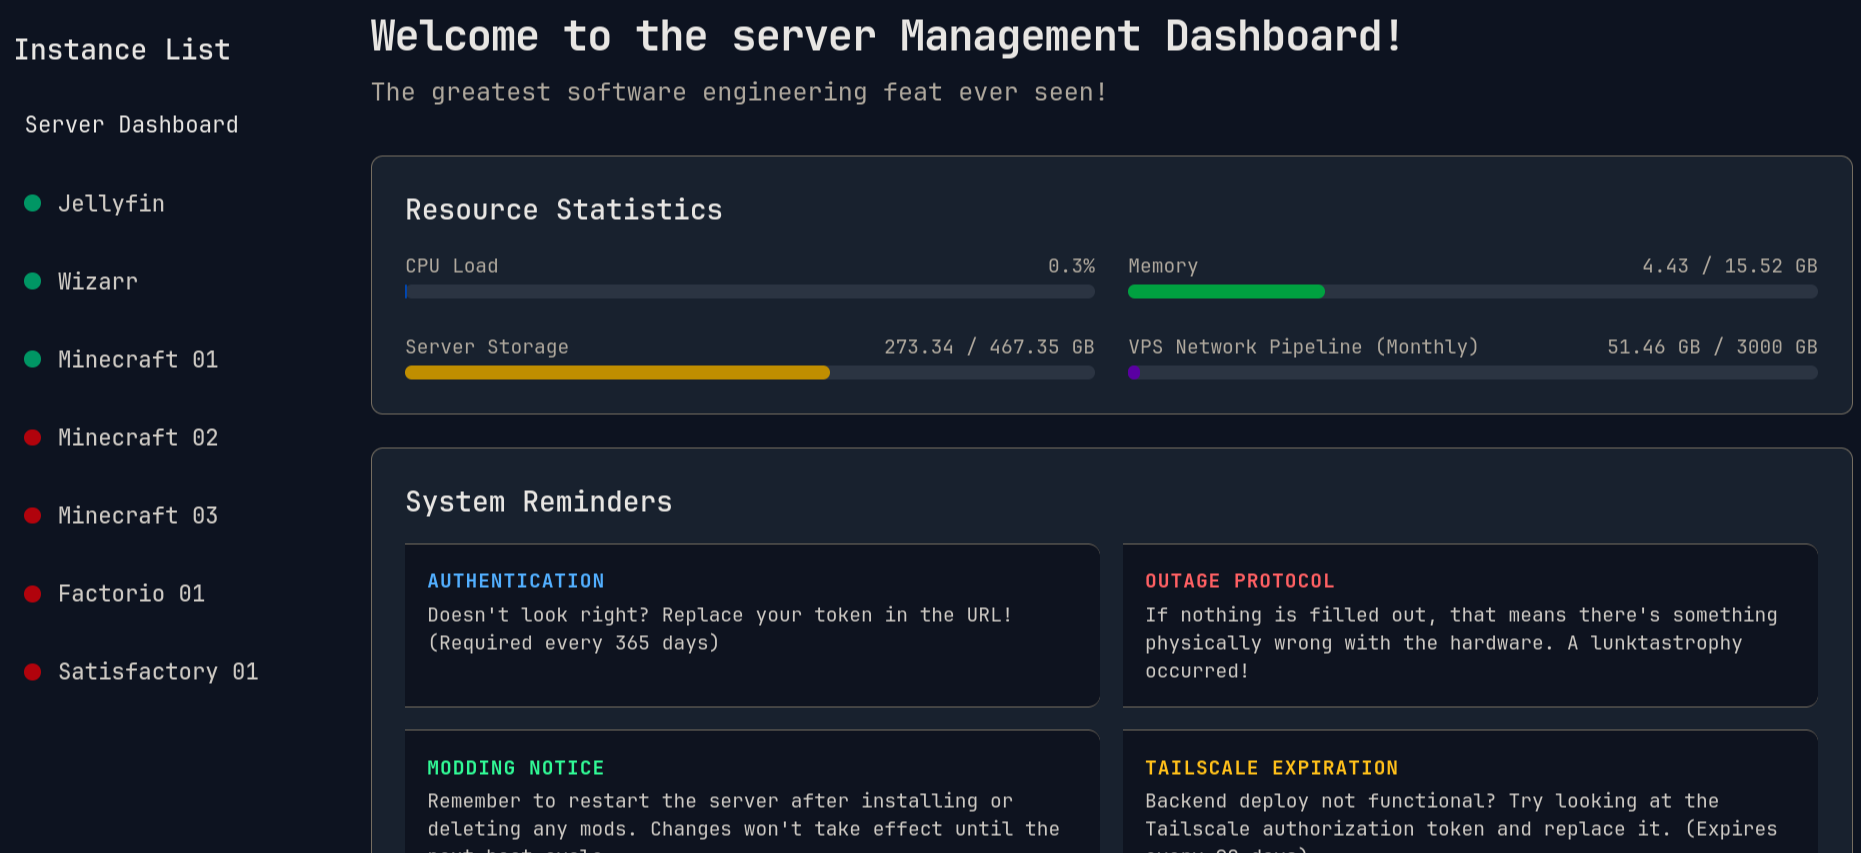
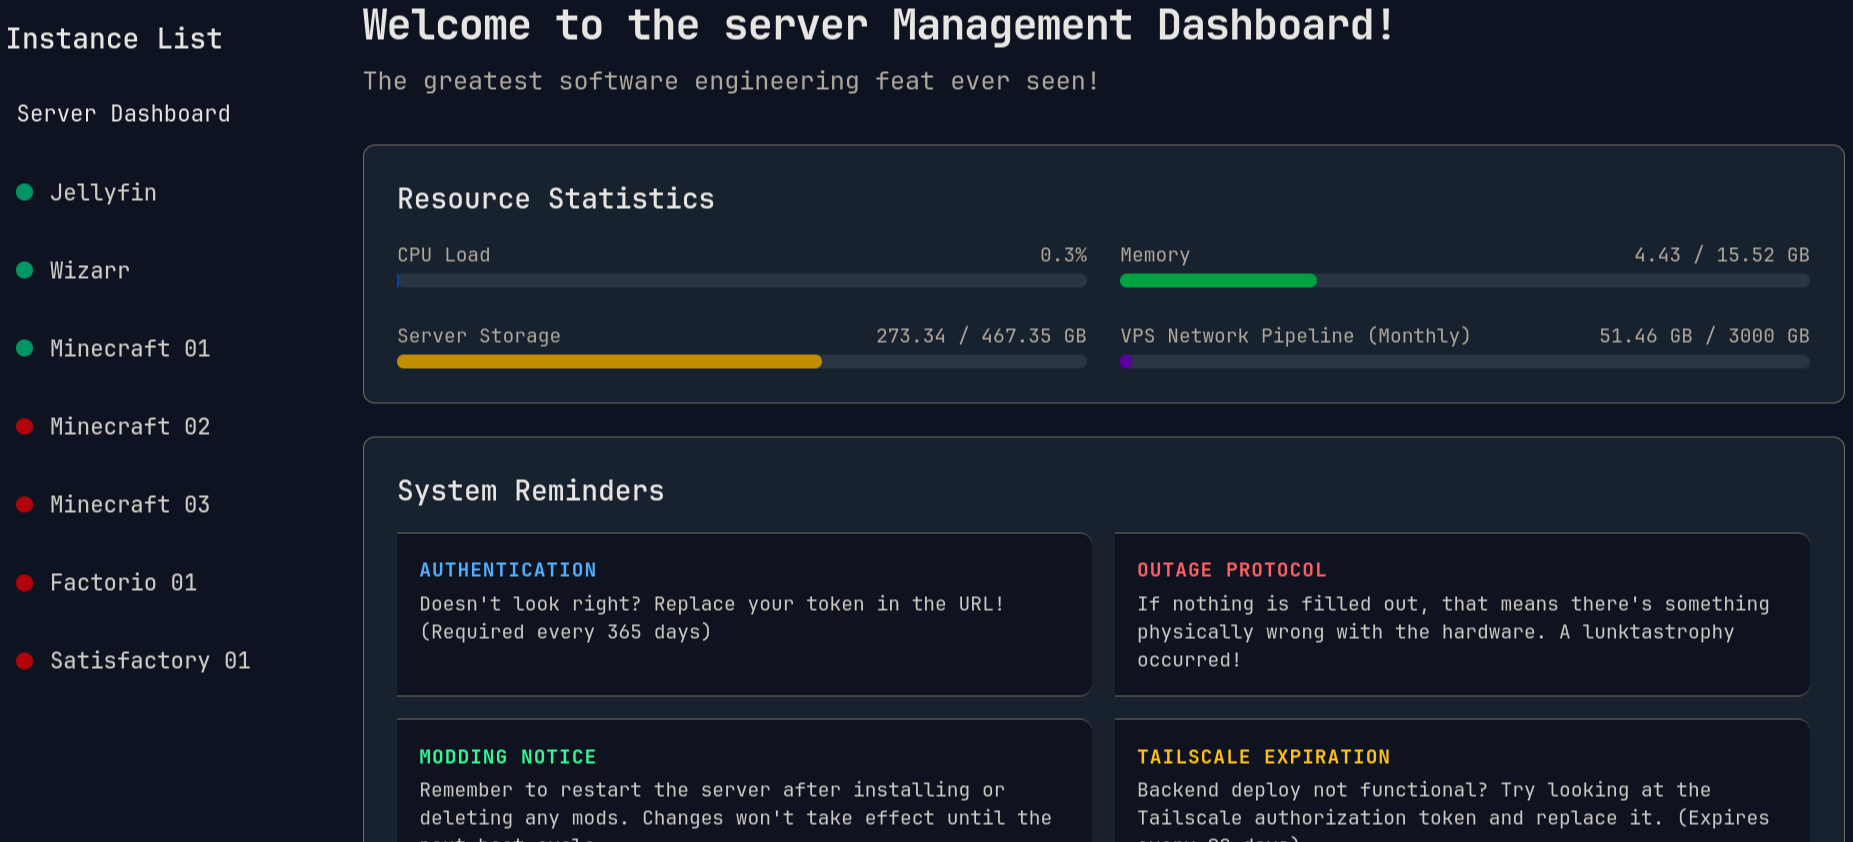
fix project image blank space, scroll instead of crop

diff --git a/app/components/ProjectCard.tsx b/app/components/ProjectCard.tsx
@@ -89,13 +89,16 @@ export default function ProjectCard({ project }: { project: ProjectProps }) {
           
           {view === "ui" ? (
             // === IMAGE VIEW ===
-            <Image 
-              src={project.image} 
-              alt={project.title}
-              fill
-              className="object-cover"
-              sizes="(max-width: 768px) 100vw, 50vw"
-            />
+            <div className="absolute inset-0 overflow-auto custom-scrollbar">
+              <Image 
+                src={project.image} 
+                alt={project.title}
+                width={1200}
+                height={800}
+                className="w-full h-auto"
+                sizes="(max-width: 768px) 100vw, 50vw"
+              />
+            </div>
           ) : (
             // === CODE VIEW ===
             // KEY CHANGE 2: 'absolute inset-0' pins the text container to the edges 
